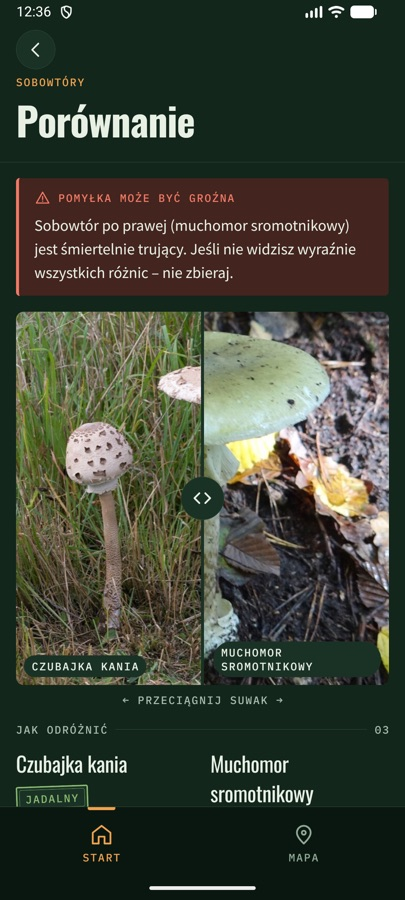
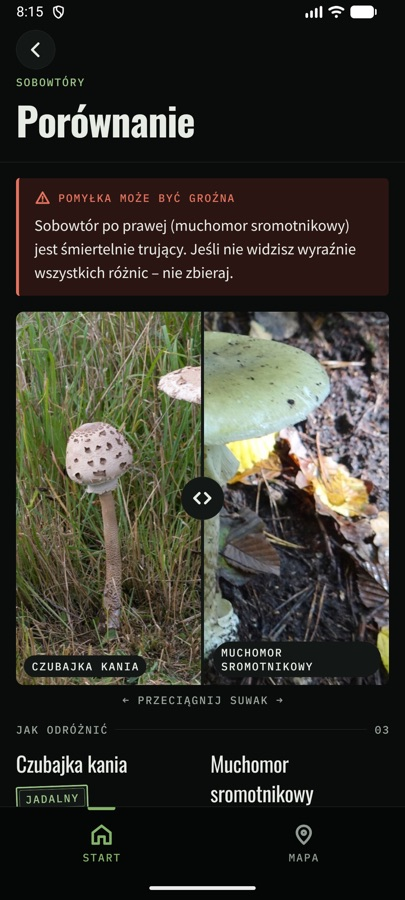
docs: refresh all README screenshots for the 'Nocny las' look

diff --git a/README.md b/README.md
@@ -21,7 +21,7 @@ Kieszonkowy przewodnik grzybiarza: atlas 26 polskich gatunków z ostrzeżeniami 
 
 - **Przygotowana głównie pod:** Android.
 - **Testowana na fizycznym urządzeniu:** TODO – do uzupełnienia przez autora przed oddaniem.
-- **Emulator:** Android Studio, Medium Phone (API 37), Expo Go 58.0.5 – wszystkie ekrany przeklikane 2026-11-21, w tym zdjęcie z aparatu, zapis znaleziska, mapa i lekcje; zmiany z 2026-11-22 (Start, ścieżka nauki, panel miejsc, szczegóły znaleziska) sprawdzone na emulatorze tego dnia.
+- **Emulator:** Android Studio, Medium Phone (API 37), Expo Go 58.0.5 – wszystkie ekrany przeklikane 2026-11-21, w tym zdjęcie z aparatu, zapis znaleziska, mapa i lekcje; zmiany z 2026-11-22 (Start, ścieżka nauki, panel miejsc, szczegóły znaleziska, wygląd „Nocny las”) sprawdzone na emulatorze tego dnia; zrzuty poniżej pochodzą z tego dnia.
 - **iOS:** nie był testowany.
 
 ## Uruchomienie
